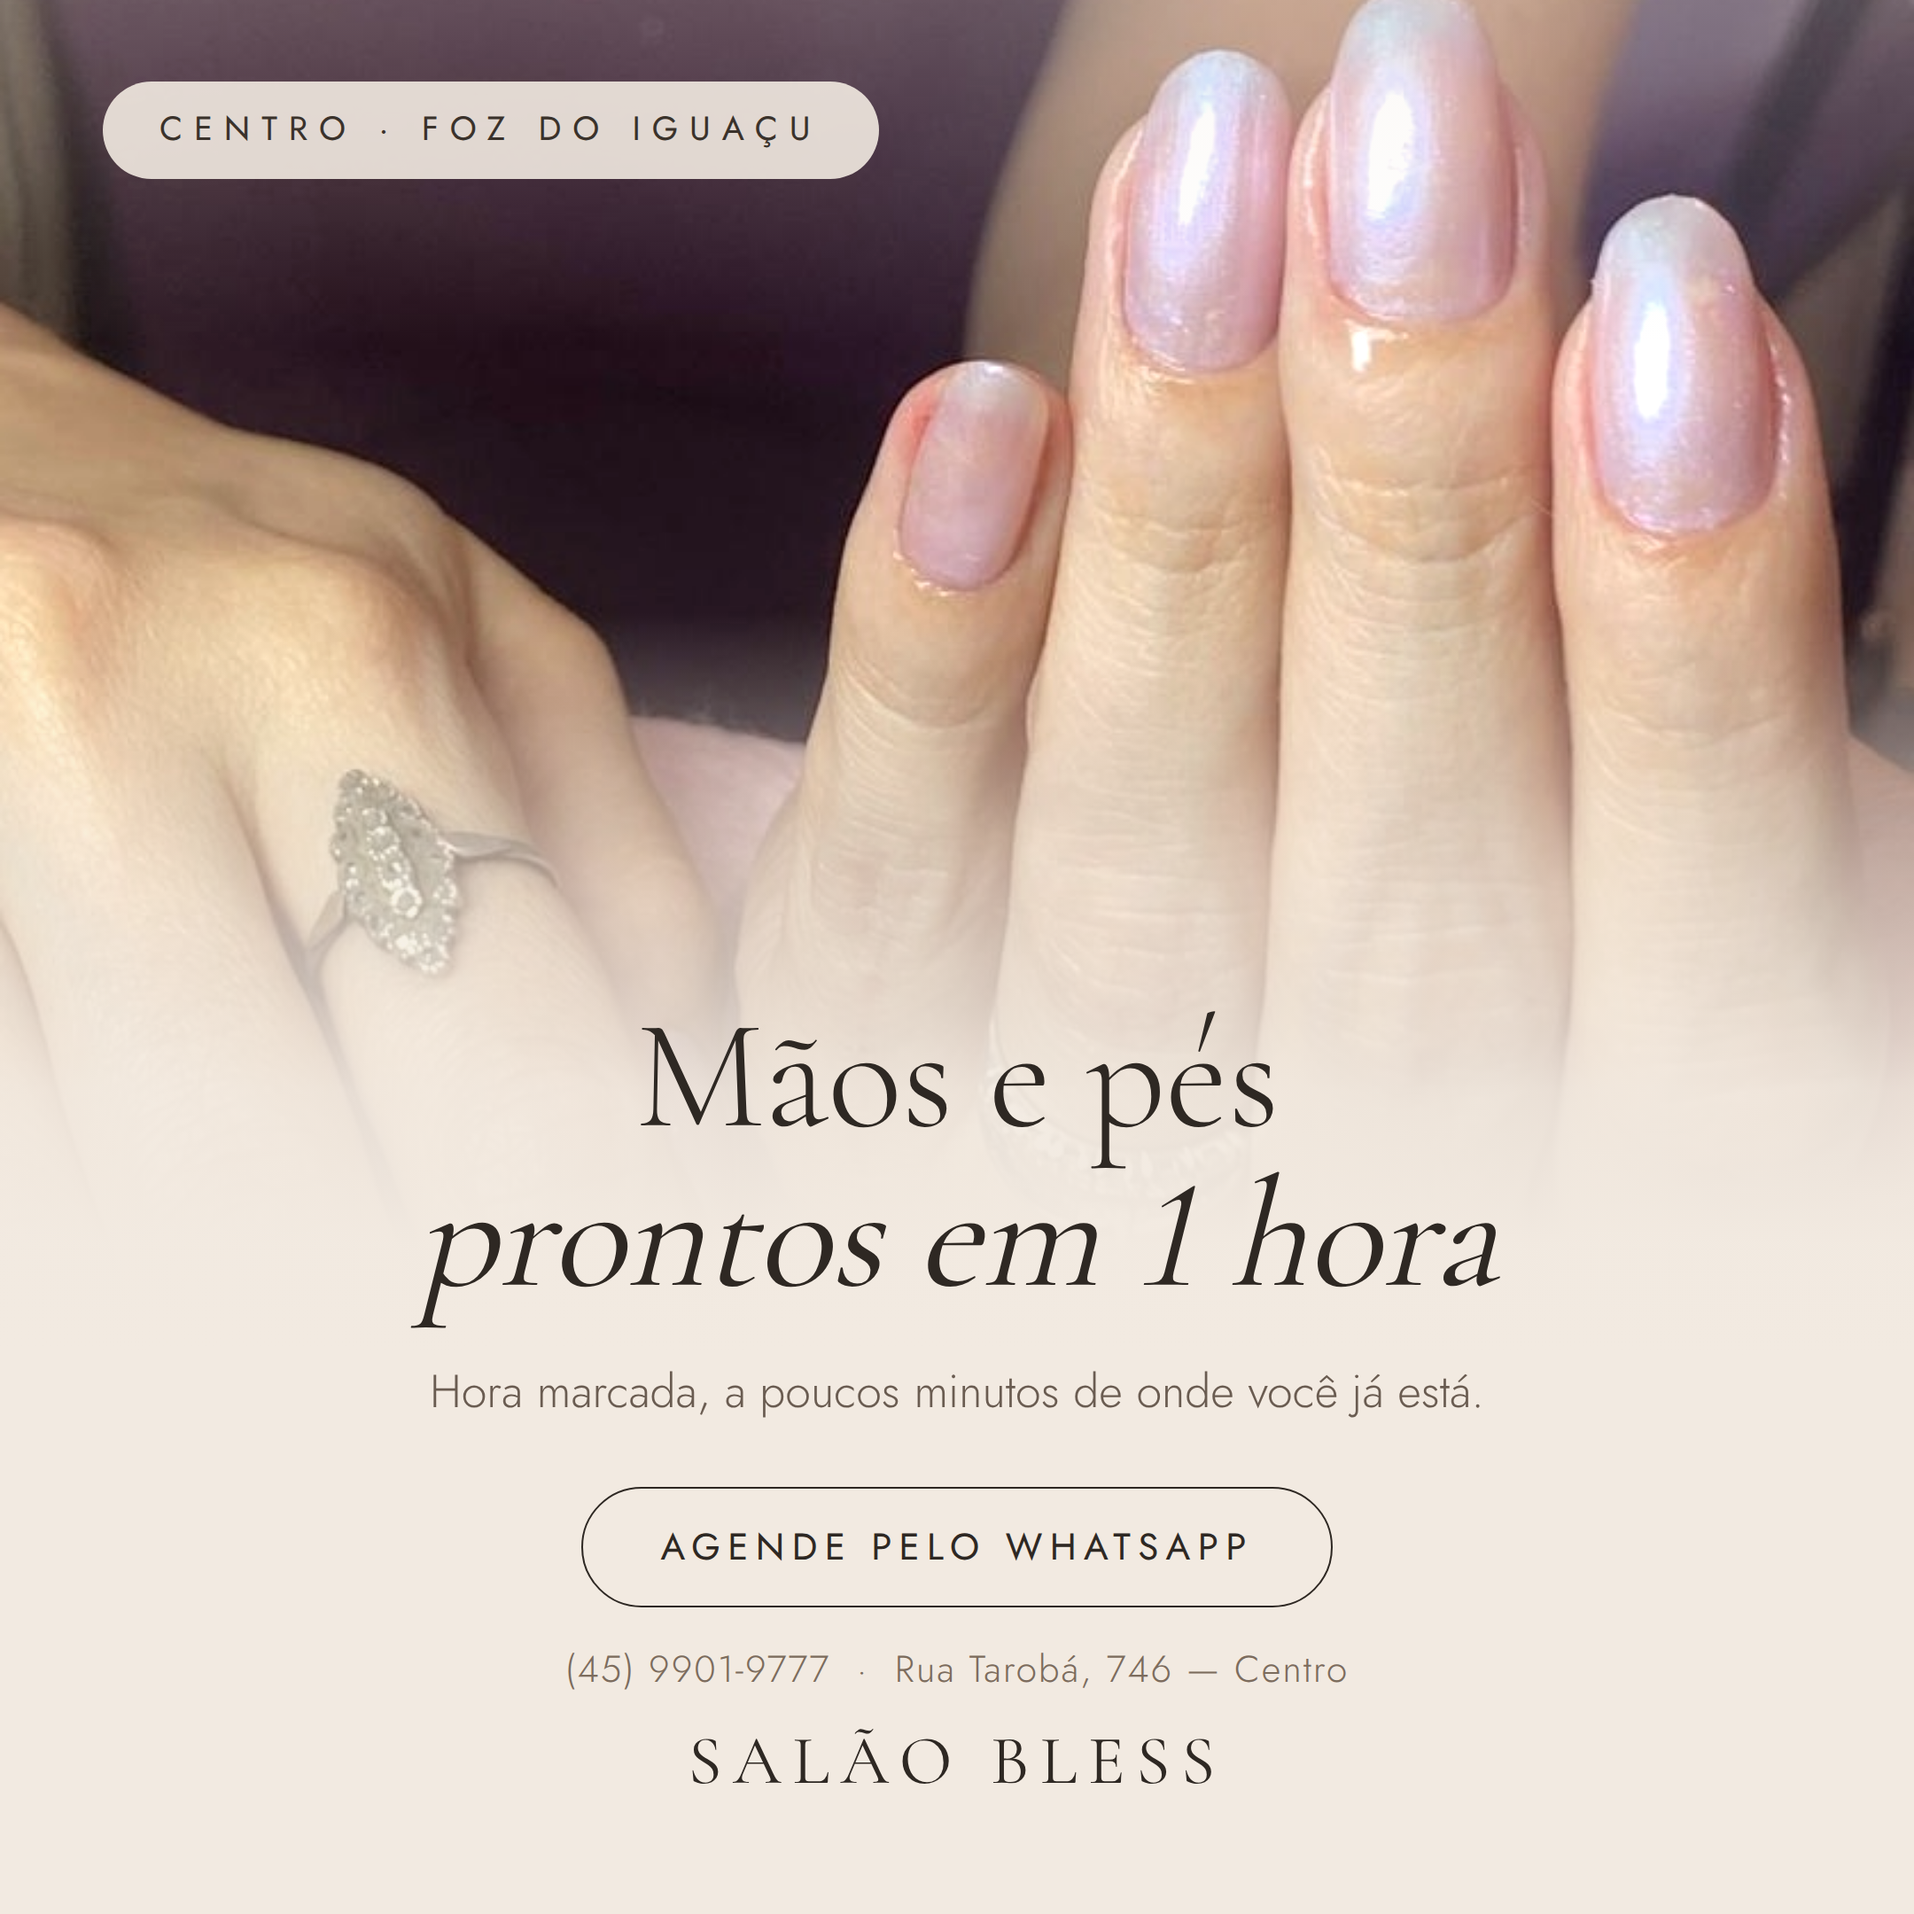
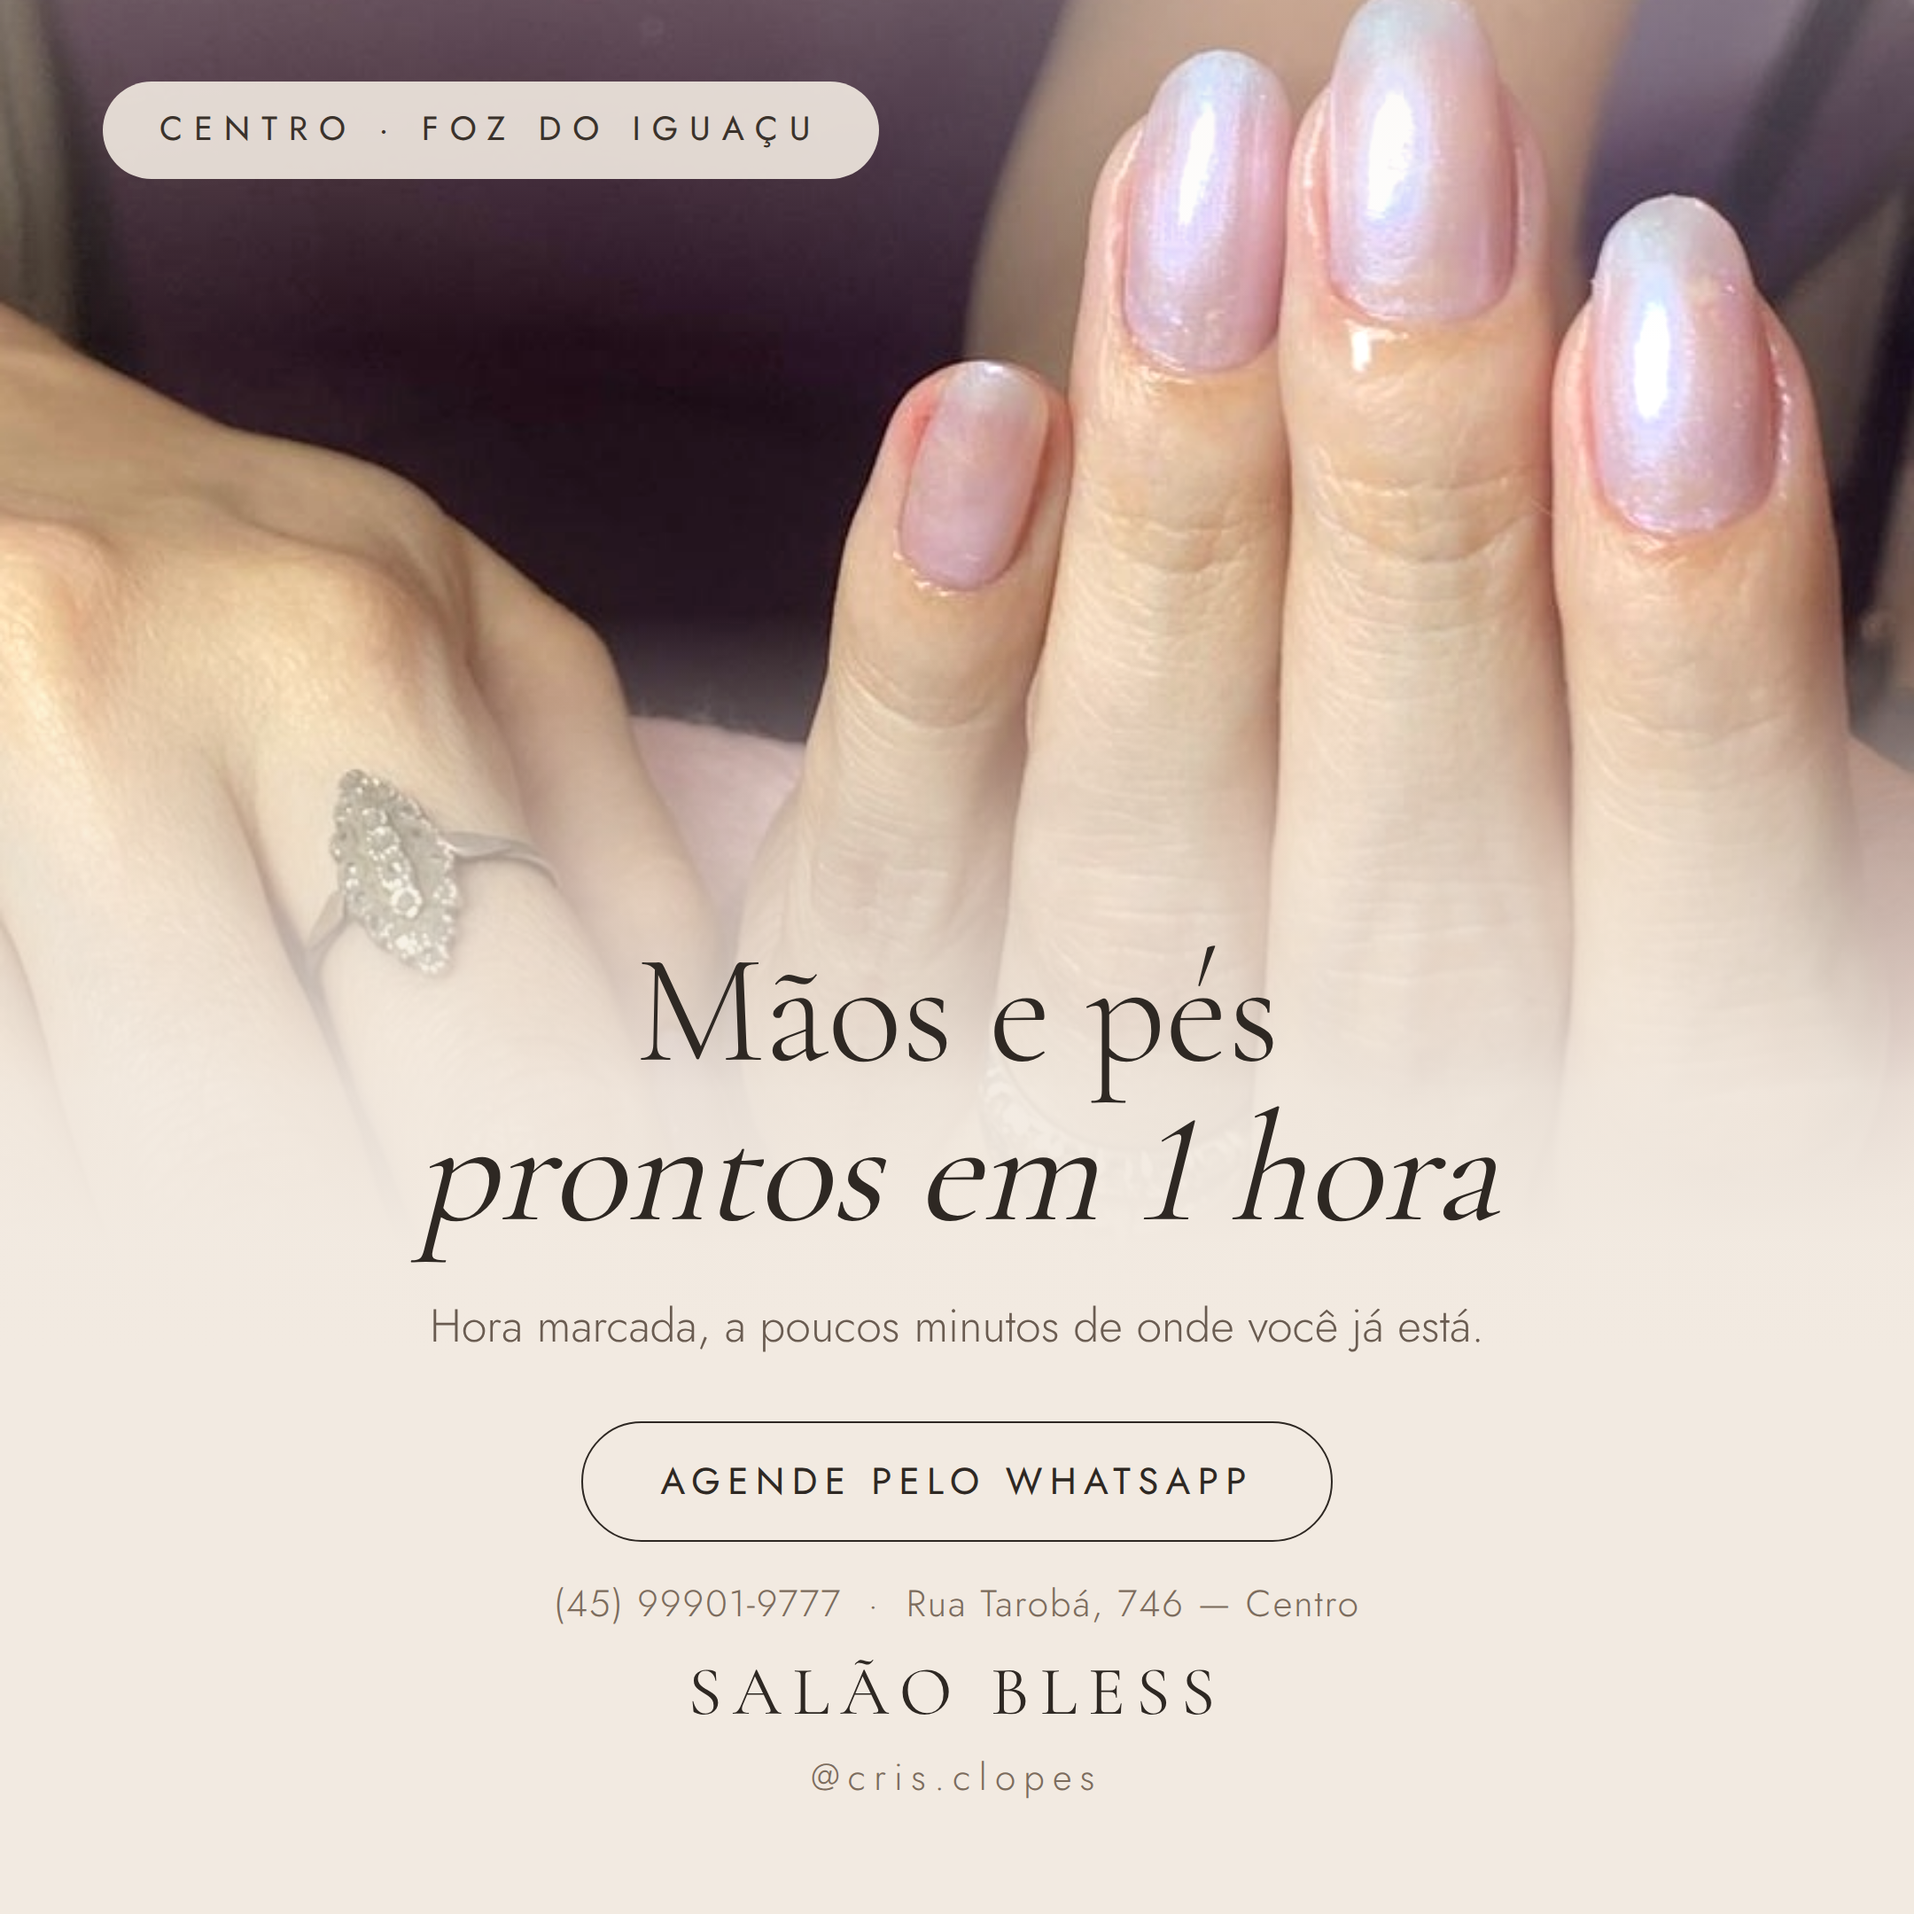
Finaliza artes com WhatsApp completo e perfil do Instagram
Corrige o numero para (45) 99901-9777, adiciona @cris.clopes no rodape das
duas artes e inclui na legenda um roteiro de atendimento a estrangeiro sem
depender de espanhol falado.

Claude-Session: https://claude.ai/code/session_01WqLqpTjJMR25kuJwGS17re

Changed region(s): [[0.2171, 0.4963, 0.8065, 0.9306]]

diff --git a/instagram/legenda-post.md b/instagram/legenda-post.md
@@ -8,10 +8,6 @@ Duas artes para testar (1080×1080, feed):
 Suba as duas com 2 a 3 dias de diferença, com a mesma legenda. A que trouxer mais
 conversa no WhatsApp é a que você impulsiona.
 
-> ⚠ **Confirmar o WhatsApp.** O número enviado foi 99019777 — 8 dígitos. Celular no
-> Brasil tem 9. Nas artes está como **(45) 9901-9777**; me diga o dígito que falta
-> (provavelmente um 9 na frente: (45) 9 9901-9777) que eu regero as duas em um minuto.
-
 ---
 
 ## Legenda (versão principal)
@@ -28,9 +24,11 @@ conversa no WhatsApp é a que você impulsiona.
 > ✷ Agenda por horário, sem fila de espera
 >
 > 📍 Rua Tarobá, 746 — Centro, Foz do Iguaçu
-> 💬 WhatsApp (45) 9901-9777 — chama que a gente te passa os horários de hoje.
+> 💬 WhatsApp (45) 99901-9777 — chama que a gente te passa os horários de hoje.
 >
 > Comenta **"CENTRO"** aqui embaixo que eu te chamo no direct. 💅
+>
+> @cris.clopes
 
 ### Variação B (mais direta ao turista)
 
@@ -39,7 +37,7 @@ conversa no WhatsApp é a que você impulsiona.
 > Salão Bless, Rua Tarobá, 746 — bem no Centro de Foz, pertinho do seu hotel.
 > Hora marcada, sem espera, para você não perder nada do roteiro.
 >
-> 💬 (45) 9901-9777
+> 💬 (45) 99901-9777
 
 ### Variação C (para a arte com foto — destaca o efeito pérola)
 
@@ -49,7 +47,7 @@ conversa no WhatsApp é a que você impulsiona.
 > você já está. Se você está de passagem pela cidade, dá tempo antes do próximo passeio.
 >
 > 📍 Rua Tarobá, 746 — Centro
-> 💬 (45) 9901-9777
+> 💬 (45) 99901-9777
 >
 > Comenta **"PÉROLA"** que eu te mando os horários de hoje. 🤍
 
@@ -97,13 +95,36 @@ quando o turista está planejando o resto do dia.
 - [ ] Bio com "Centro de Foz do Iguaçu" escrito por extenso (é o que aparece na busca)
 - [ ] Perfil do Salão Bless no **Google Meu Negócio** atualizado — turista pesquisa
       "manicure perto de mim" no Maps antes de procurar no Instagram
-- [ ] Link direto pronto (confirmar o número antes):
+- [ ] Link direto no perfil:
       `https://wa.me/5545999019777?text=Oi!%20Vi%20o%20post%20e%20quero%20agendar`
 
 ## Resposta pronta para quem chamar no direct ou no WhatsApp
 
 > Oi! Que bom te ver por aqui 💛 Somos o Salão Bless, na Rua Tarobá, 746 — Centro.
 > Mão e pé leva 1 hora. Tenho horário hoje às __h e às __h — qual fica melhor pra você?
+
+---
+
+## Atendimento a estrangeiro (sem falar espanhol)
+
+O Bless atende estrangeiro mas não conversa em espanhol — então a arte **não** leva
+"Se habla español", para não prometer o que não se entrega. O que resolve na prática:
+
+- **Cardápio visual de serviços.** Uma folha plastificada (ou um álbum no celular) com
+  foto de cada serviço, o tempo e o preço. Argentina e paraguaia apontam e resolvem
+  sem uma palavra de espanhol.
+- **Frases prontas no WhatsApp.** Deixe salvas como respostas rápidas:
+  - *"¡Hola! Somos Salão Bless, Rua Tarobá 746, Centro. Manos y pies: 1 hora."*
+  - *"Tengo horario hoy a las __ y a las __. ¿Cuál prefieres?"*
+  - *"Aceptamos pix, tarjeta y efectivo (real y peso)."*
+- **Deixe claro se aceita peso argentino ou guarani** — em Foz isso decide a visita.
+- **Tradutor do Google no modo conversa** dá conta do resto. Não precisa fluência,
+  precisa de boa vontade e de o preço estar claro antes de começar.
+
+Se um dia você quiser puxar esse público de propósito, aí sim vale um post separado
+escrito em espanhol — mas só depois que o atendimento estiver preparado.
+
+---
 
 **Sem preço na arte** (como você pediu): quando perguntarem valor, responda com o preço
 **junto do horário** — "Mão e pé fica R$ __, tenho hoje às 15h. Reservo pra você?".
